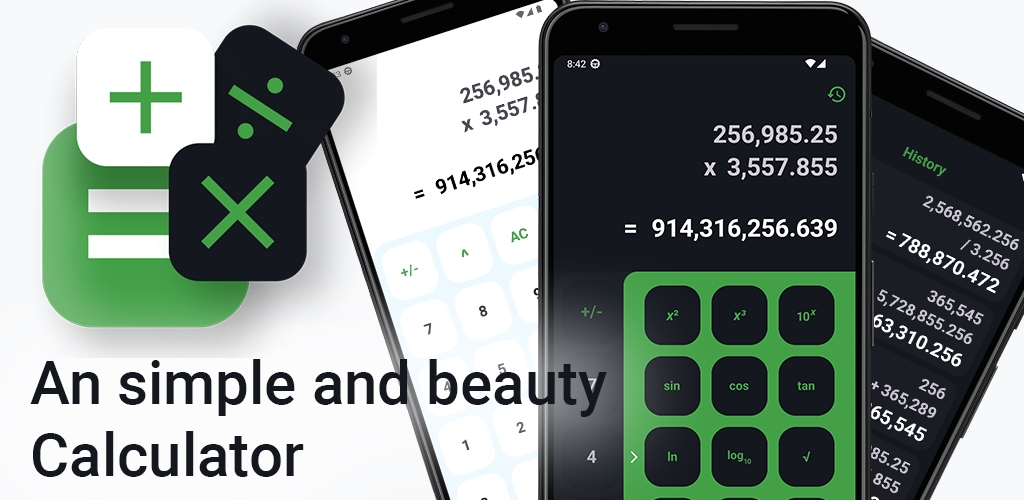
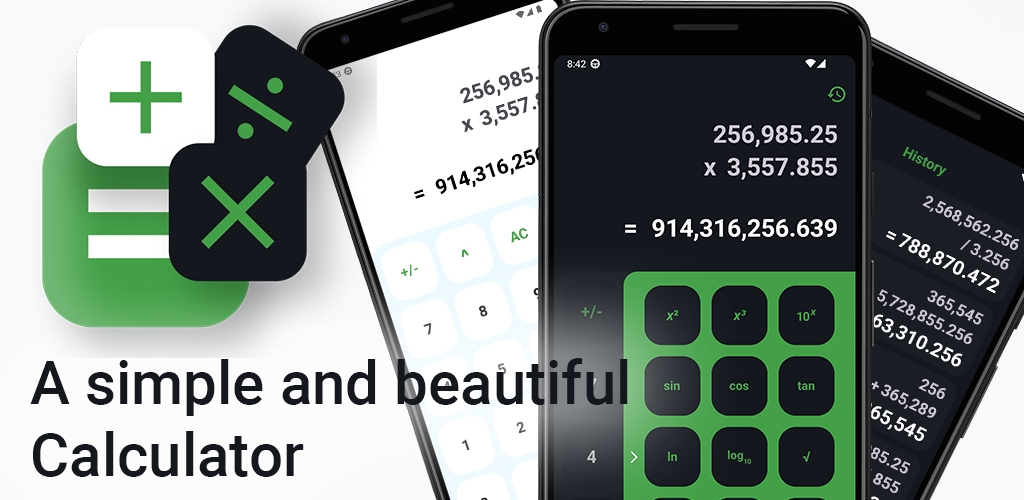
refactor: correcting-readme-en-errors

Changed region(s): [[0.0625, 0.66, 0.6562, 0.84]]

diff --git a/README.md b/README.md
@@ -1,6 +1,6 @@
 <h1 align="center"><img src="https://github.com/daavsnts/calculator/raw/main/images/banner-presentation.jpg"></h1>
 
-<p align="center"><b>An simple and beauty Calculator</b> made with <b>Kotlin</b> to <b>Android</b> devices.</br>
+<p align="center"><b>A simple and beautiful Calculator</b> made with <b>Kotlin</b> to <b>Android</b> devices.</br>
 Made following <b>Clean Code</b> and <b>Android conventions</b> from <b>Google codelabs</b>.</br></p>
 <p align="center">
 🔍 The app is currently <b>under review</b> for <b>publication</b> in the <b>Play Store</b>.</p>
